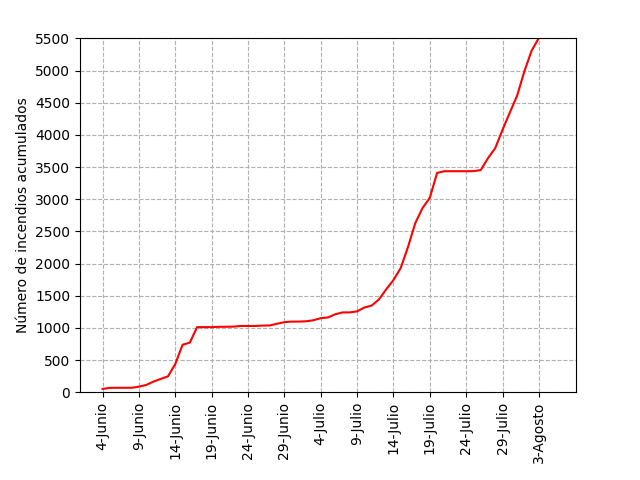
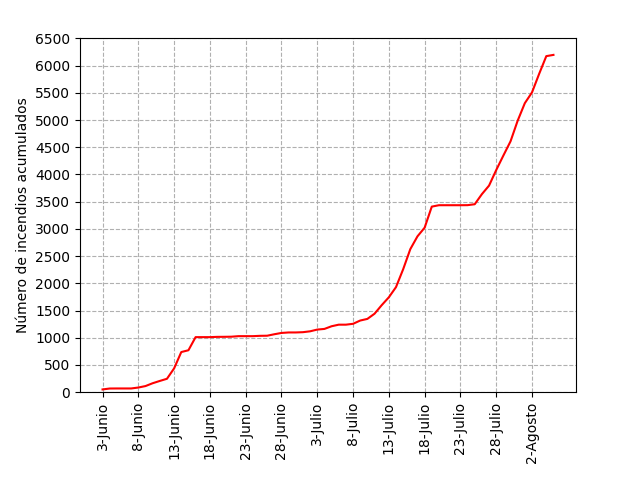
?

diff --git a/Scripts/DataPlot.py b/Scripts/DataPlot.py
@@ -57,7 +57,7 @@ for file in files:
     #<------------------------Valores iniciales de la localizacion------------------->
     lon_i=[-61,-60];lat_i=[-33.5,-32.5];dg=0.25
     n_dlon=delimiter(lon_i,dg);n_dlat=delimiter(lat_i,dg)
-    day=int(file[42:45])
+    day=int(file[42:45])-1
     year,month,days=date(day)
     n=np.size(lat)
     count=np.zeros([n_dlon,n_dlat],dtype=int)
@@ -74,7 +74,7 @@ for file in files:
         sum_t[k]=sum_t[k-1]+sum
     else:
         sum_t[k]=sum
-    print
+    print(sum,days,month)
     if k%5==0:
         date_data=np.append(date_data,str(days)+"-"+month_name[month-6])
     k+=1
@@ -113,6 +113,6 @@ plt.plot(np.arange(n_data),sum_t,color="red")
 plt.ylabel("Número de incendios acumulados")
 plt.xticks(np.arange(0,n_data,5),date_data,rotation=90)
 plt.ylim(0,5500)
-plt.yticks(np.arange(0,5500+500,500))
+plt.yticks(np.arange(0,6200+500,500))
 plt.grid(ls="--")
 plt.savefig("../Graphics/NIA.png")
